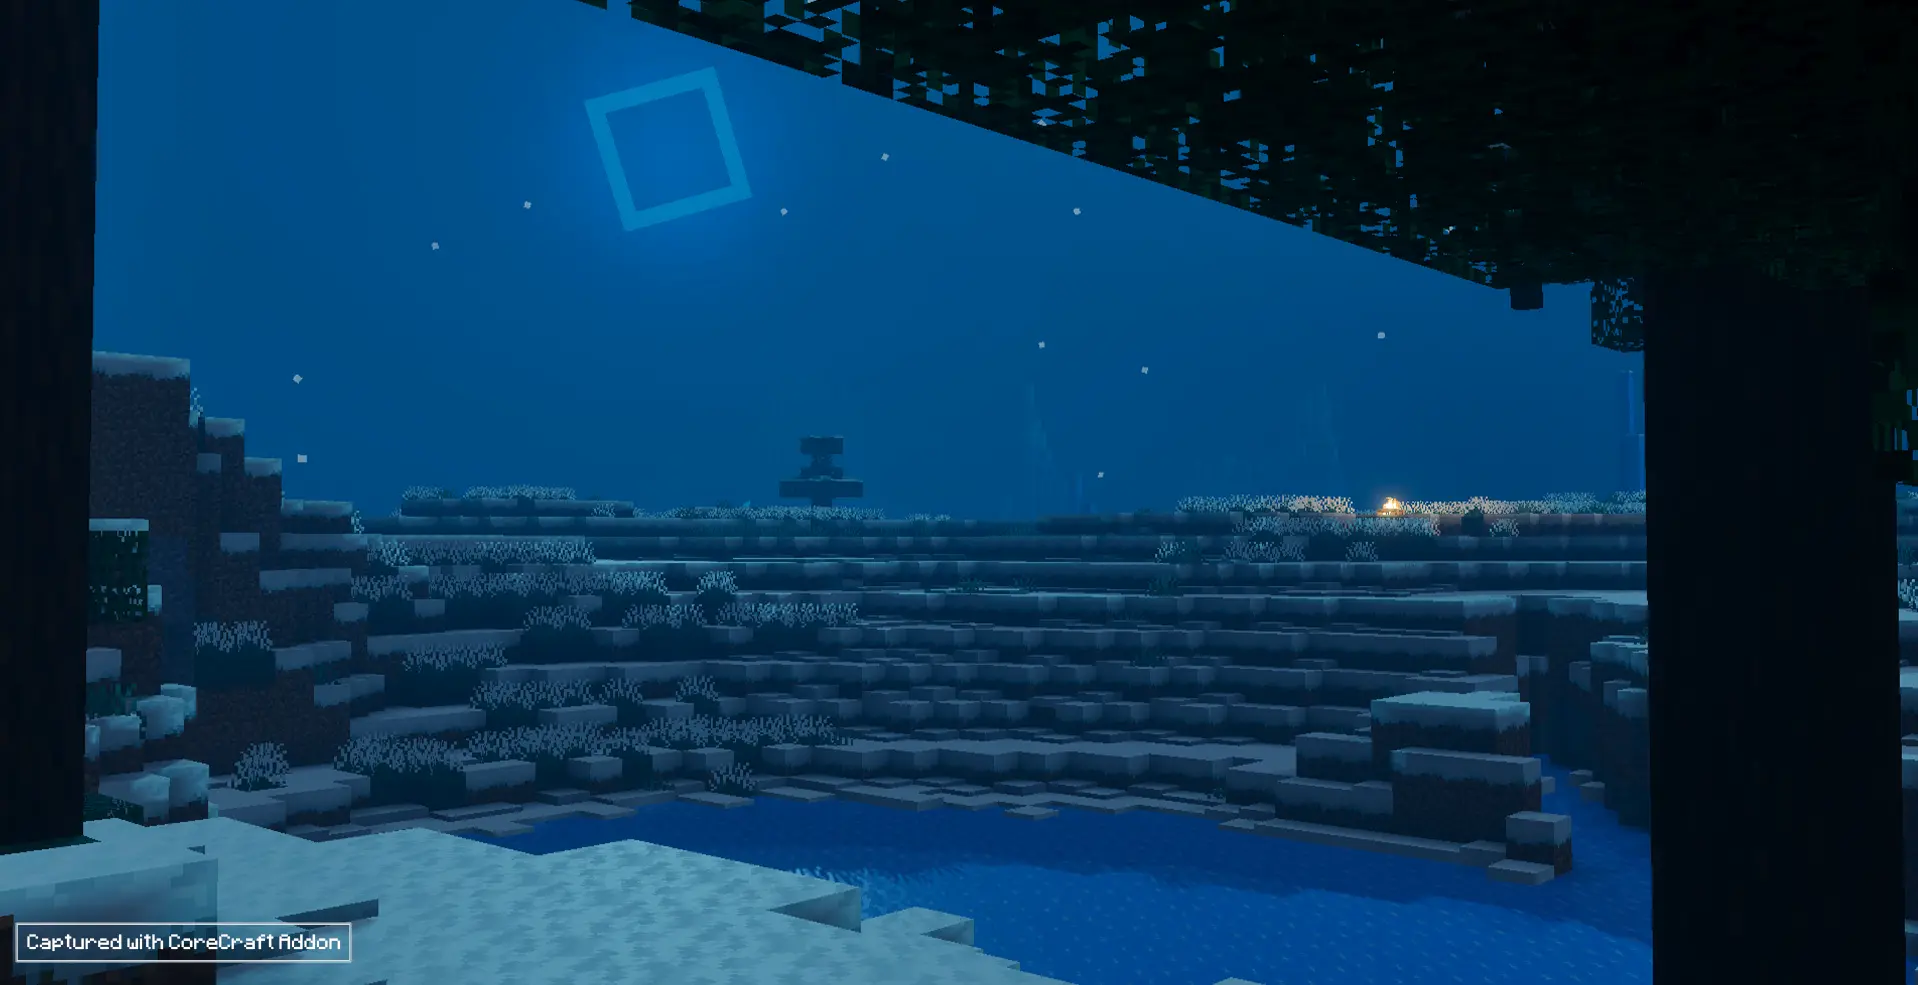
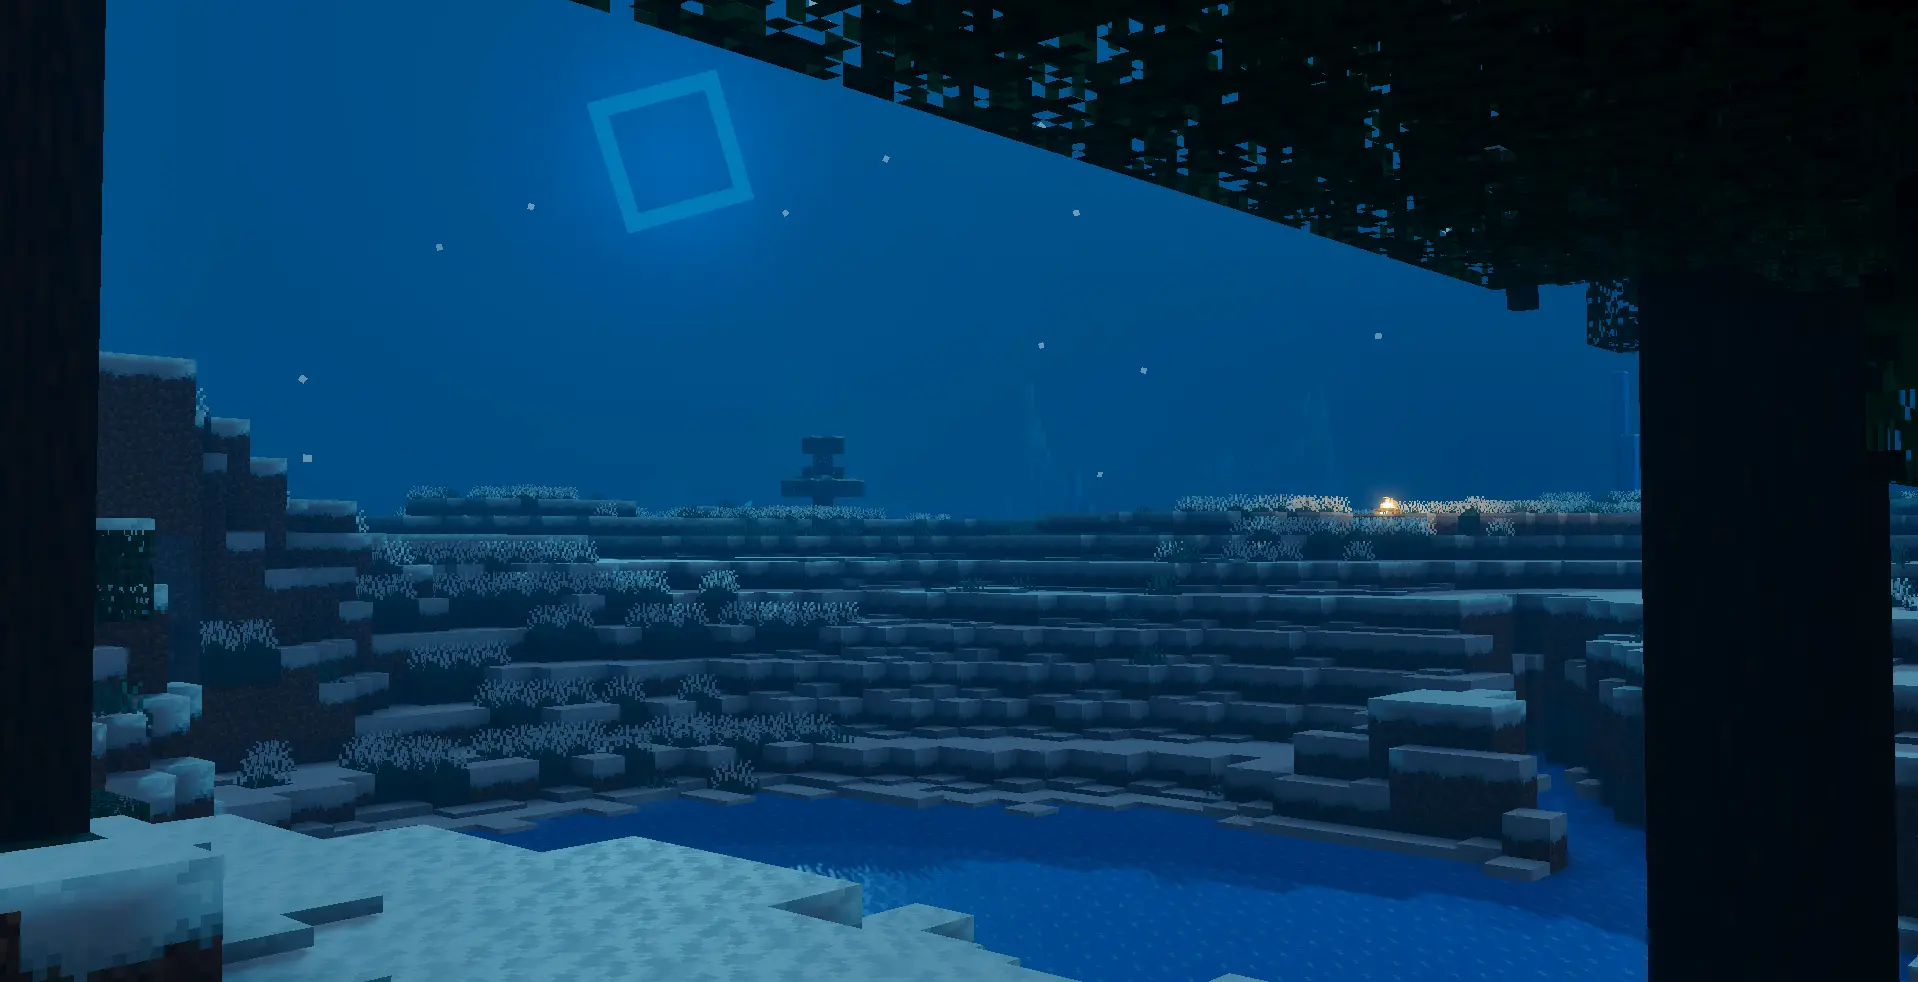
higher quality images and QOL changes in guide page

diff --git a/site.js b/site.js
@@ -146,7 +146,7 @@
     if (!el) return;
     el.innerHTML = GUIDES.map(
       (g, i) => `
-      <details class="pixel-panel guide"${i === 0 ? " open" : ""}>
+      <details class="pixel-panel guide" name="guides-accordion"${i === 0 ? " open" : ""}>
         <summary>
           <span class="platform">${g.platform}</span>
           <h3>${g.title}</h3>
@@ -162,7 +162,7 @@
     if (!el) return;
     el.innerHTML = FAQ.map(
       (f, i) => `
-      <details${i === 0 ? " open" : ""}>
+      <details name="faq-accordion"${i === 0 ? " open" : ""}>
         <summary>${f.q}</summary>
         <p>${f.a}</p>
       </details>`
